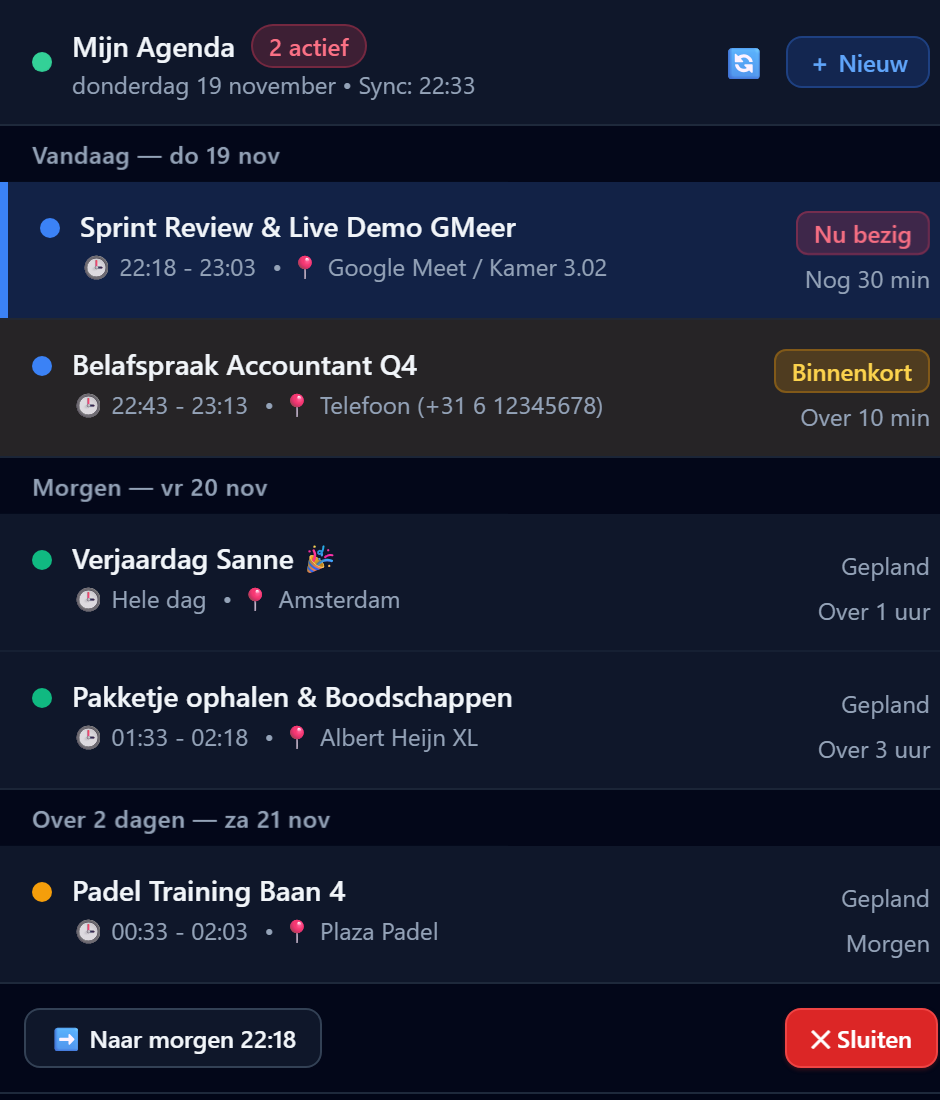
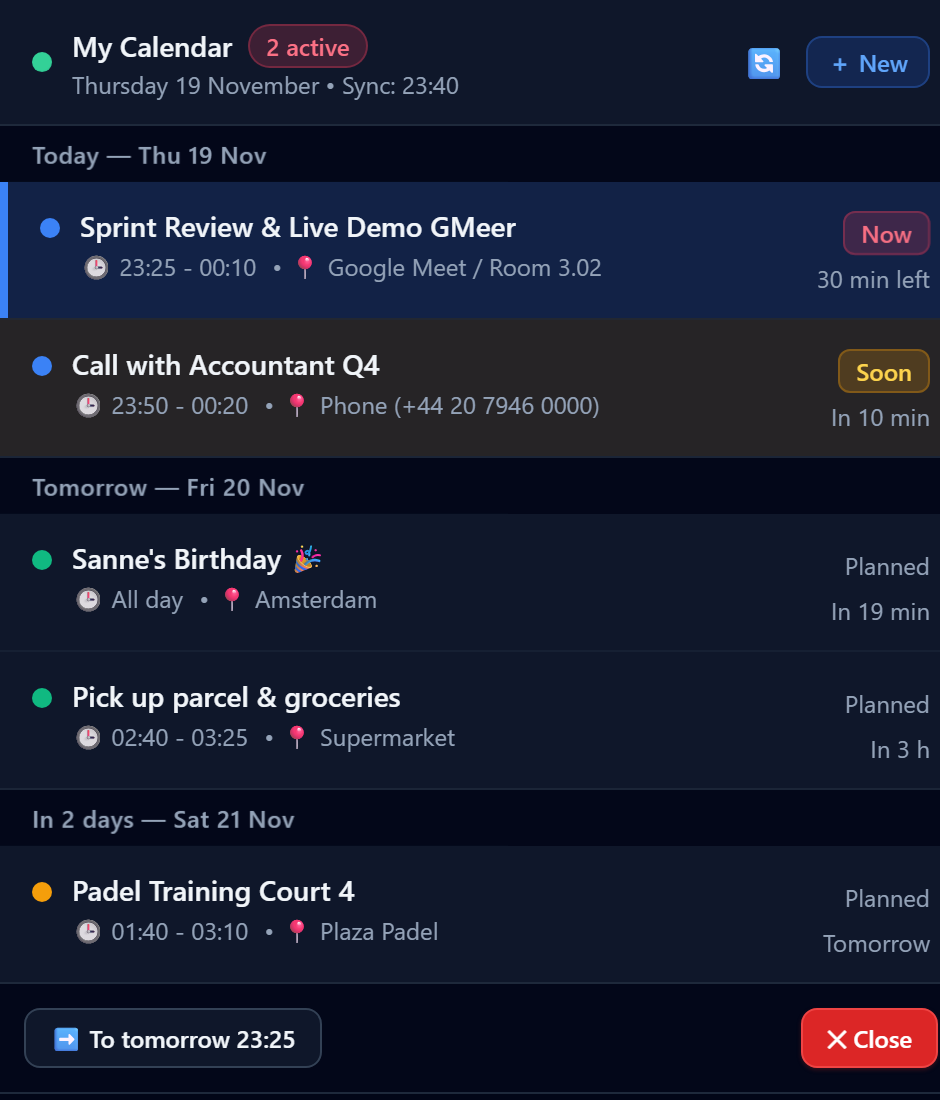
Screenshots in English

diff --git a/README.md b/README.md
@@ -12,7 +12,7 @@ Because milowg stopped working on it in 2017 and it started to have some bugs, I
   <img src="docs/settings.png" alt="GMeer calendar settings" width="380">
 </p>
 
-<sub>Screenshots show demo data (Dutch interface; English is also available).</sub>
+<sub>Screenshots show demo data (English interface; Dutch is also available).</sub>
 
 ## Features
 
